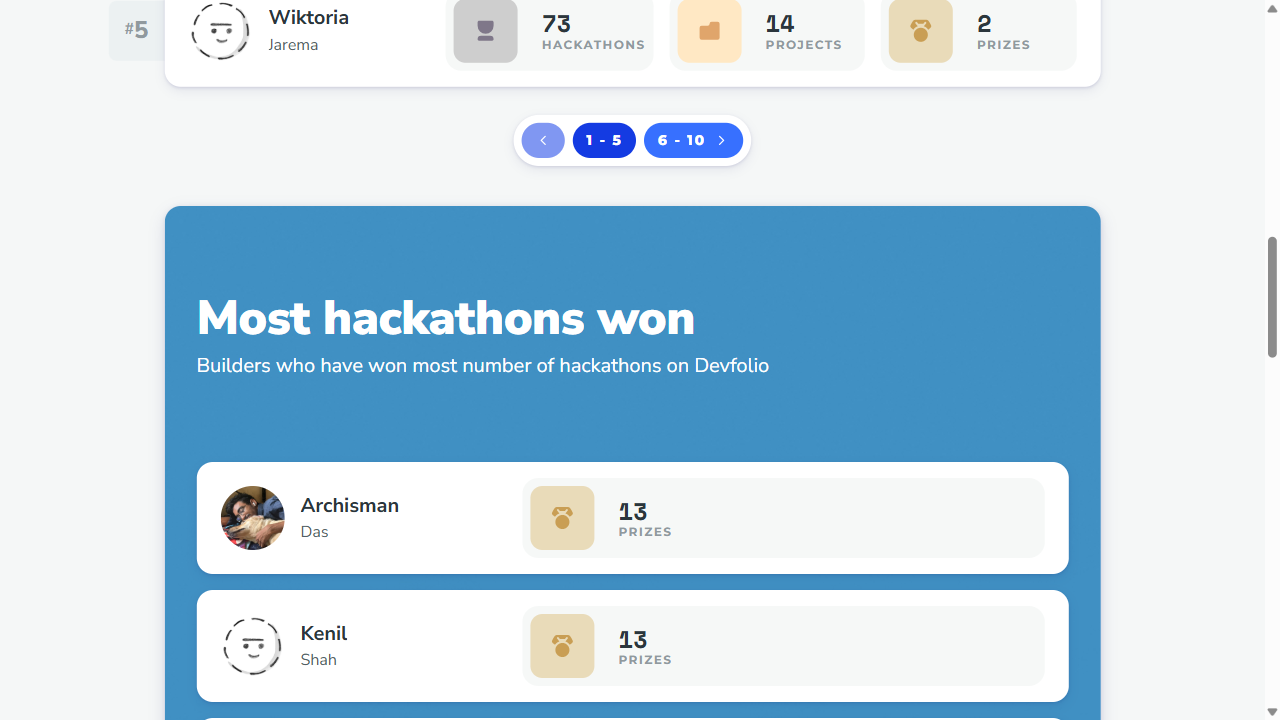
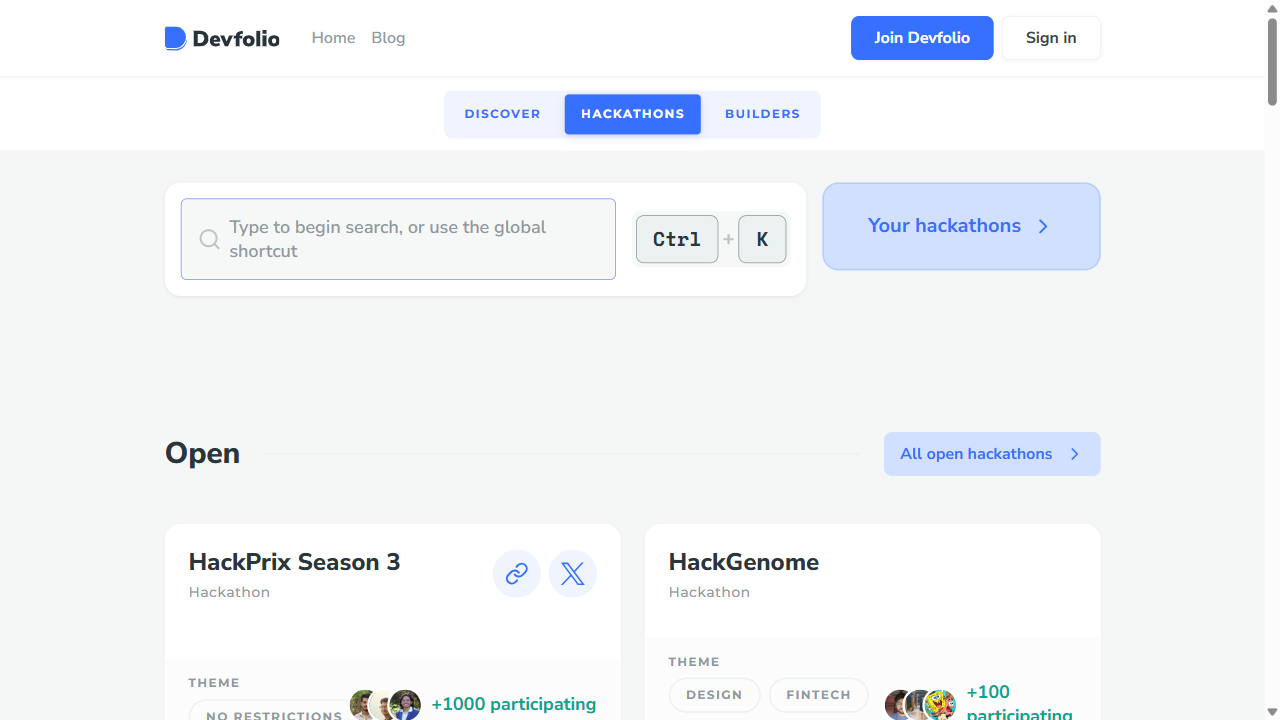
Integrated multi-source ingestion pipeline

diff --git a/db/store.py b/db/store.py
@@ -1,44 +1,62 @@
+import hashlib
 import sqlite3
 
 
 conn = sqlite3.connect("hackathons.db")
+
 cursor = conn.cursor()
 
 cursor.execute("""
 CREATE TABLE IF NOT EXISTS hackathons (
-    link TEXT PRIMARY KEY,
+    fingerprint TEXT PRIMARY KEY,
     name TEXT,
     deadline TEXT,
-    source TEXT
+    source TEXT,
+    link TEXT
 )
 """)
 
 conn.commit()
 
 
+def generate_fingerprint(hackathon):
+
+    raw = (
+        hackathon["name"].lower().strip()
+        + hackathon["deadline"].lower().strip()
+    )
+
+    return hashlib.sha256(raw.encode()).hexdigest()
+
+
 def get_new_hackathons(hackathons):
+
     new_items = []
 
     for hackathon in hackathons:
+
+        fingerprint = generate_fingerprint(hackathon)
+
         cursor.execute(
-            "SELECT link FROM hackathons WHERE link = ?",
-            (hackathon["link"],)
+            "SELECT fingerprint FROM hackathons WHERE fingerprint = ?",
+            (fingerprint,)
         )
 
         exists = cursor.fetchone()
 
         if not exists:
+
             cursor.execute(
                 """
                 INSERT INTO hackathons
-                (link, name, deadline, source)
-                VALUES (?, ?, ?, ?)
+                VALUES (?, ?, ?, ?, ?)
                 """,
                 (
-                    hackathon["link"],
+                    fingerprint,
                     hackathon["name"],
                     hackathon["deadline"],
-                    hackathon["source"]
+                    hackathon["source"],
+                    hackathon["link"]
                 )
             )
 

diff --git a/main.py b/main.py
@@ -1,18 +1,45 @@
+from fetcher.devpost import fetch_hackathons
 from fetcher.devfolio import DevfolioFetcher
 
+from bot.notifier import send_message
+from db.store import get_new_hackathons
 
-fetcher = DevfolioFetcher()
 
-try:
-    hackathons = fetcher.fetch()
+def run_pipeline():
 
-except Exception as e:
-    print(f"[ERROR] {e}")
+    all_hackathons = []
 
-    hackathons = []
+    sources = [
+        ("Devpost", fetch_hackathons),
+        ("Devfolio", DevfolioFetcher().fetch)
+    ]
 
-print(f"\nFetched: {len(hackathons)}\n")
+    for name, fetch_function in sources:
 
-for hackathon in hackathons:
-    print(hackathon)
-    print("-" * 50)
+        try:
+
+            print(f"\n[{name}] Fetching...")
+
+            data = fetch_function()
+
+            print(f"[{name}] {len(data)} fetched")
+
+            all_hackathons.extend(data)
+
+        except Exception as e:
+
+            print(f"[{name}] ERROR: {e}")
+
+    print(f"\n[TOTAL] {len(all_hackathons)} fetched")
+
+    new_items = get_new_hackathons(all_hackathons)
+
+    print(f"[NEW] {len(new_items)}")
+
+    for hackathon in new_items:
+
+        send_message(hackathon)
+
+
+if __name__ == "__main__":
+    run_pipeline()
